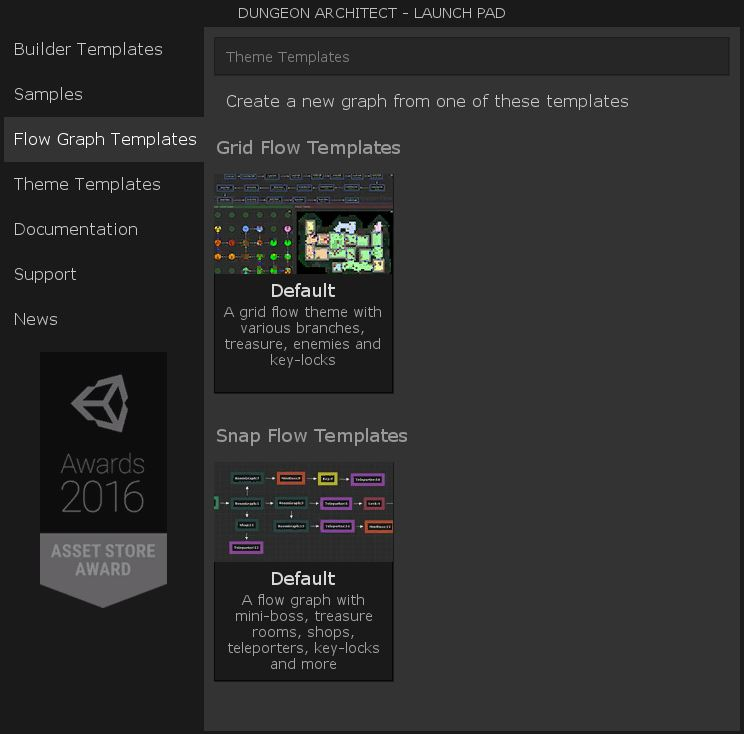
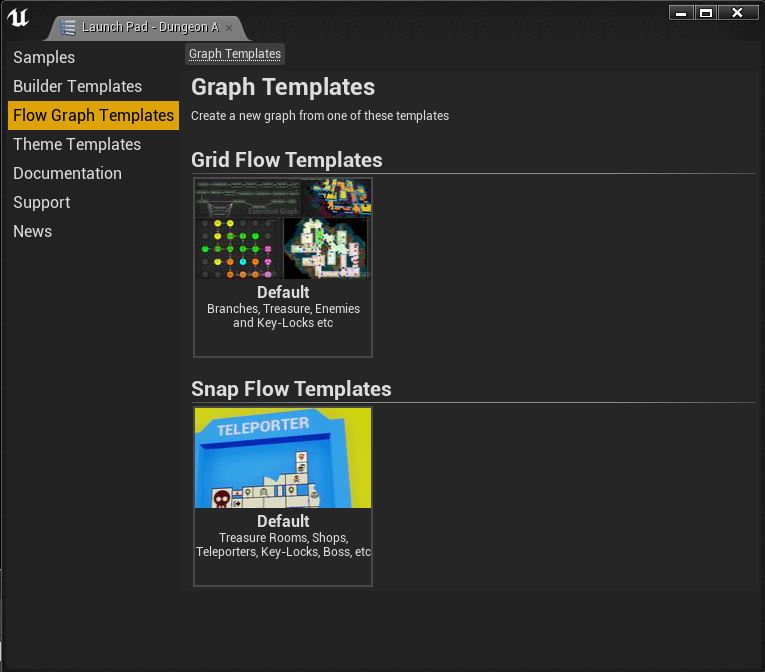
Updated the launchpad page

diff --git a/ue4/tutorials/searchindex.js b/ue4/tutorials/searchindex.js
@@ -1,1 +1,1 @@
-Search.setIndex({docnames:["advanced_dungeon_concepts","advanced_theming","builder_floor_plan","builder_grid","builder_grid_flow","builder_isaac","builder_simple_city","builder_snap_flow","create_first_dungeon","design_first_theme","index","launch_pad"],envversion:{"sphinx.domains.c":1,"sphinx.domains.changeset":1,"sphinx.domains.citation":1,"sphinx.domains.cpp":1,"sphinx.domains.javascript":1,"sphinx.domains.math":2,"sphinx.domains.python":1,"sphinx.domains.rst":1,"sphinx.domains.std":1,sphinx:56},filenames:["advanced_dungeon_concepts.rst","advanced_theming.rst","builder_floor_plan.rst","builder_grid.rst","builder_grid_flow.rst","builder_isaac.rst","builder_simple_city.rst","builder_snap_flow.rst","create_first_dungeon.rst","design_first_theme.rst","index.rst","launch_pad.rst"],objects:{},objnames:{},objtypes:{},terms:{"4x4":3,"512x512":4,"abstract":4,"break":9,"case":[1,9],"class":1,"default":[4,7,11],"final":7,"function":8,"import":[7,9],"long":4,"new":[3,4,7,8,9,10],"null":4,"public":1,"return":[1,4],"short":11,"static":4,"true":4,"var":4,"while":[3,4],Added:4,For:[],Ids:4,LHS:7,One:1,RHS:7,That:[],The:[3,4,7,8,9],Then:4,There:[4,9,11],These:[1,3,4,7,11],Use:[4,10,11],With:11,abov:7,access:11,accord:3,across:3,act:4,action:11,activ:3,actor:10,actual:4,adapt:9,add:[7,8,10],added:[4,9,11],adding:[3,4],adjac:7,adjust:[4,9],advanc:10,affect:11,after:[4,7,8],again:[4,7],ahead:[7,9],align:[1,7,10],all:[4,7,8,9],alli:4,allow:[3,7,9,11],along:4,alreadi:4,also:[4,7,9,11],altern:1,alternateselectionrul:1,alwai:9,amount:4,ani:[1,4,9,11],anoth:[3,4,7,9],anyth:4,anywher:4,appear:[],appli:[1,3,4],appropri:[4,11],architect:[4,7,9,11],area:[3,4,7,9],around:[3,4],art:[3,4,11],asset:[3,4,7,8,10,11],assign:[3,4,7,10],associ:11,attach:[4,9],automat:[4,9],avail:4,awai:4,axi:7,back:[4,11],bar:11,base:[4,11],becaus:9,been:9,befor:[4,9],behind:4,being:9,belong:4,below:[4,7],better:4,between:[3,7,9],bigger:9,billboard:4,bit:9,block:4,blue:4,blurri:4,bool:[1,4],border:4,boss:7,both:[3,4],bottom:9,bound:[4,7],boundari:9,box:[],branch:4,bring:4,brows:11,browser:[9,11],buffer:4,build:[3,7,9,10],builder:10,built:[3,4,7],bump:[3,4],button:[3,4,8,9,11],call:[4,11],came:9,can:[1,3,4,7,8,9,11],candi:8,candydungeonthem:[],canopendoor:4,canselect:1,canva:4,categori:[7,9,11],caus:9,cave:4,cell:[1,3],center:9,certain:[3,9],chanc:9,chang:[3,4,7,8,9],channel:11,chat:11,check:[3,4],child:7,choos:[9,11],citi:10,clear:4,click:[3,4,7,8,9,11],clone:11,close:[1,4],closer:4,collect:1,collid:4,color:4,come:[4,9],comfort:4,commun:11,compar:9,complet:[4,7],complex:[7,9],condit:9,config:4,configur:[4,7,8,9,11],connect:[3,4,9,10],consum:9,contain:[4,7,9,11],containsitem:4,content:[8,9],context:[4,9],continu:[3,9],control:[1,3,4,7,9,11],convert:4,corner:9,correct:7,correctli:9,corridor:[1,3,4,7],count:[4,7],cover:[3,7],creat:[1,3,10,11],creation:[3,7],criteria:[],crowd:1,current:[],cursor:3,custom:4,cyan:4,cycl:7,da_candi:9,dashboard:4,debug:9,decor:[4,10],defin:[3,7,8,9],delet:[3,7],demo:11,demo_theme_candi:[],demo_theme_simpleshap:3,demobuilder_gridflow:4,demogam:4,demogamesupportfil:4,demogridflow:4,depth:4,design:[3,7,10,11],desir:4,destroi:4,detail:[7,8],determin:3,dev:11,develop:11,differ:[1,3,4,7,8,9,11],difficult:9,difficulti:4,direct:7,directli:11,directori:[],disabl:4,disappear:9,discord:11,displai:4,dist:4,distanc:4,doc:7,dock:4,document:[7,10],documentaiton:[],doe:4,doesn:[4,9],don:[4,9],done:[4,7],door:[4,7,9],doorlargelocked_green:4,doorlargelocked_yellow:4,doubl:[4,7,9],down:[3,4,9],drag:[3,4,7,9],draw:[3,9],drawn:9,drop:[3,4,7,8,9],dungeon:[3,9,11],dungeonarchitect:[1,3,4],dungeonarchitect_sampl:[3,4,11],dungeonarchitect_samplesdemobuilder_snapscenesdemoscen:7,dungeongrid:3,dungeongridflow:4,dungeonmodel:1,dungeonsnap:7,each:[1,4,7],earlier:4,easili:11,edg:[4,7],edit:7,editor:[7,9,11],either:4,element:4,email:11,emit:9,emitt:10,empti:[4,9],emtpi:7,enabl:[4,8,9],end:4,engin:9,enough:3,entri:[7,8],epic:[],especi:11,etc:[4,7,9,11],even:9,eventu:[],everi:9,everyth:[4,11],exampl:[3,4,9],execut:[4,7,9],exist:[4,7,8,9,11],exit:7,expand:[3,4,9],experi:7,explor:[3,7,11],extern:11,extra:4,fals:4,far:4,featur:4,fenc:[3,9],few:[4,7],fewer:3,file:[4,8,10,11],fill:7,filter:4,find:[7,11],first:[3,4,10],fix:9,flag:9,floor:10,flow:10,flower:9,flowgraph:4,focu:4,fog:4,folder:[4,8,9,11],follow:[4,9,11],foreach:4,forum:11,fps:4,frame:9,freedom:9,frequenc:4,from:[4,7,8,9,11],full:7,fulli:11,further:[7,9],futur:[4,9,11],game:[3,4,7,11],gameobject:4,gap:7,gate:4,gener:[3,4,8,10],get:[3,4,7,8,9],getcomponentinchildren:4,give:[7,9],given:4,goal:4,going:4,good:[4,7],gradual:4,grammar:7,graph:[1,7,10],great:1,green:4,grei:4,greyscal:4,grid:[10,11],griddungeon:[],gridflow:10,gridflowbuilderdemo_gam:4,gridflowdoorkeycompon:4,gridflowdoorlockcompon:4,gridflowminimap:4,gridflowminimaptrackedobject:4,gridflowplayercontrol:4,gridposit:1,gridsiz:4,ground:[3,10],grund:4,grunt:4,guard:[4,7],half:9,hand:4,handl:1,handler:4,happen:4,has:[4,9],have:[3,4,7,9],haven:[],health_pickup:4,healthpickup:4,height:[3,4],help:[4,7],helper:8,henc:9,here:[4,7,9],hide:4,hierarchi:[4,9],high:3,histor:4,hit:[4,7],hold:4,hole:7,how:[3,4,7],icon:[4,7,8],imag:4,implement:4,includ:11,incorrect:9,increas:4,index:9,indic:[4,7,9],info:4,init:4,inner:9,insert:7,insid:[],inspect:[3,4,7,8],inspector:[4,7,11],instal:10,instead:[4,9],interact:11,interest:7,inventori:4,invok:[],isaac:10,issu:9,item:4,iter:7,its:9,just:[3,4,9],keep:4,kei:[7,10],key_room:4,keyguardian:4,keyid:4,keymain:4,keyskull_blu:4,keyskull_r:4,keytreasur:4,know:7,label:8,larg:[3,4,7],larger:11,last:[4,11],later:[4,7,11],lauch:11,launch:[3,10],launcher:11,layout:[3,7,8,11],learnt:9,leav:4,left:[3,4,7,9,11],let:[1,3,4,7,9,11],level:[3,4,8,11],levelgo:4,light:4,like:[4,7,9,11],line:[7,9],link:[7,9,11],list:[4,11],live:9,locat:[4,7],lock:[7,10],lockeddoor:4,lockid:4,lockmain:4,locktreasur:4,logic:[1,4],look:4,lower:4,made:4,mai:4,main:[7,11],mainboss:7,make:[4,7,9],mani:[4,11],manual:4,map:[3,7,9,10],marker:[3,4,10],marketplac:8,mat_tabletscreen:4,math:4,matrix4x4:1,max:[3,4],maximum:3,mean:9,mention:7,menu:[4,7,9],merg:4,mesh:[3,4,10],method:[3,4,9,11],might:4,min:[3,4],minecraft:4,mini:10,miniboss:7,mode:[4,7,10],model:1,modifi:[9,11],modul:[3,10],modular:9,more:[1,3,4,7,10,11],mous:9,move:[3,4,9],much:[3,11],mulitpli:4,multi:7,multipl:[3,7,9],mywalldeco:9,mywindowdeco:9,name:[4,7,8,9],navig:[3,4,9,10],nearbi:3,need:[4,7,9],never:[4,9],newli:[7,9],next:[4,9,11],node:[1,4,7,9],nois:4,non:9,noth:[],notic:[4,9],now:[4,7,9],npc:4,num:4,number:[3,4],numcel:3,object:[1,3,7,11],occur:4,off:[4,9],offer:4,offset:[1,10],older:7,onc:[9,11],one:[3,4,7,9,11],ones:11,onli:[3,4,9],onlin:11,open:[3,7,9,10],option:[8,9],orang:4,order:9,organ:10,origin:4,other:[1,4,7,9,11],otherwis:[3,7],our:[4,7,8,9],ourselv:[4,9],out:[4,9,11],output:4,outsid:4,outward:7,over:[4,11],overrid:[1,10],own:[1,3,9,11],pad:[3,4,10],page:[7,11],paid:11,paint:10,paintmod:3,panel:[4,7,8],paramet:[3,4,9],part:4,pattern:7,per:4,percentag:9,perform:[4,11],perpendicular:7,perturb:4,photo:9,pick:[4,9],pickup:4,pillar2:9,pillar:10,pivot:9,place:[4,7,8,9],placement:[3,4],plai:4,plan:10,platform:10,platformvolum:3,player:4,plu:8,plugin:[8,9],png:[],point:[4,7,9,11],portion:3,posit:[3,9,11],possibl:7,pot:9,practic:7,pre:[4,7],prebuilt:7,preconfigur:11,prefab:[3,10],prehistor:4,prepar:10,present:4,preview:[4,9],previou:[3,4,9,11],previous:7,probabl:[1,3,4,9],procedur:[3,7],process:[4,7,9],project:[4,7,11],promot:3,properli:[7,9],properti:[4,9,10,11],propsocket:1,proptransform:1,provid:[4,9],qualiti:4,random:[1,4,7,10],rawimag:4,reach:[3,4,11],readi:[4,7],realtim:4,rebuild:[3,4],recap:10,recreat:4,red:[4,7],ref:4,refer:[3,4,7,9],referenc:[4,11],regardless:9,regener:4,regist:10,registr:7,relav:4,releas:9,remov:4,renam:[4,7],render:4,repeat:7,replac:[7,9],requir:[4,7],reset:[4,7],resiz:3,rest:[3,9],result:4,retain:11,reus:7,rich:4,right:[4,7,9],rock:4,room:[1,3,7],root:[],rotat:[4,9],rule:[7,10],run:[4,7],same:[7,9],sampl:[3,7,8,10],satisfi:[7,9],save:[4,7,11],scale:[3,4,9],scatter:3,scene:[3,4,9,10,11],screen:11,script:[1,4,7],scroll:[3,11],sea:4,search:8,second:9,section:[3,4,9,11],see:[4,7,8,9,11],seed:[3,4,7,8],select:[3,4,7,8,9,10,11],selector:1,selectorrul:1,set:[1,3,4,7,9,11],setup:[10,11],shader:4,sharp:4,shift:3,should:[4,9],show:[8,9],shown:4,simpl:[7,10],simplest:9,simpli:[4,8],sinc:[4,7,9,11],size:[3,4],small:4,snap:[10,11],snapconnect:7,snapmap:7,socket:1,solid:9,some:[3,4,9],someth:4,sometim:[4,9],somewher:4,soon:7,space:4,spawn:[8,9],spawnpoint:4,spawnroom:7,special:[1,4,7],specifi:[4,7],spread:3,stair:3,start:[4,7,9,11],step:[3,4],stick:9,stitch:7,stop:9,store:11,support:[3,4,7,10],sure:[4,7,9],surround:3,sync:4,synchron:4,system:[1,7,10],tablet:4,tablet_map:4,take:[3,7],target:4,tell:7,templat:10,test:[],text:4,textur:4,thei:[4,7,9],them:[3,4,7,9,11],theme:10,theme_basic_whit:3,themeoverridevolum:3,themeprehistor:4,thi:[1,3,4,7,9,11],thick:4,thing:4,though:9,threshold:[3,4],through:[1,4,7,11],tile:[1,3,4],time:[4,7,9],tint:4,togeth:[3,4,7],toller:3,ton:11,too:1,tool:[4,11],toolbar:11,top:[3,4,11],tower:1,transform:[4,7,10],transpar:4,travers:3,treasur:7,treasure_alt:4,treasure_main:4,treasureroom:7,trigger:4,turn:[4,7,9],tutori:[4,9,11],two:[3,4,7,9],type:[4,9,11],ue4:8,uncheck:9,under:[4,7,8,9,11],unexplor:4,uniform:4,unityengin:1,unless:9,unlink:4,unlit:4,unlock:7,updat:[4,7,9,11],use:[4,7,8,9,11],used:[3,4,7,9],useful:[3,11],using:[1,4,7,9],usual:[7,11],valid:4,validkei:4,valu:[3,4,8,9],variat:3,variou:11,vehicl:4,version:9,video:11,view:[4,8,9],viewport:9,visibl:4,visual:4,volum:10,wai:[1,4,9,11],walk:7,wall1:9,wall2:9,wall:[3,4,7,10],wallsepar:9,want:[1,3,4,7],war:4,watch:11,well:7,were:9,what:11,wheel:3,when:[4,8,9],whenev:9,where:[4,7],which:[4,7,8,9],white:4,window:[4,7,10],within:4,without:11,won:4,wont:7,work:4,world:4,would:[7,9,11],write:1,yellow:4,yet:4,you:[1,3,4,7,8,9,11],your:[3,4,7,10,11],yourself:4,zoom:4},titles:["Advanced Dungeons","Advanced Theming","Floor Plan Builder","Grid Builder","Grid Flow Builder","Isaac Builder","Simple City Builder","Snap Flow Builder","Create your first Dungeon","Design your first theme","Welcome to Dungeon Architect Tutorials [UE4]","Launch Pad Window"],titleterms:{"final":4,"new":11,Use:9,actor:8,add:[4,9],advanc:[0,1],align:9,alt:4,altern:4,architect:[8,10],asset:9,assign:8,background:4,bonu:4,build:[4,8],builder:[2,3,4,5,6,7,11],chest:4,citi:6,compon:4,configur:[],connect:7,content:[],creat:[4,7,8,9],decor:9,design:[4,9],destroi:[],document:11,dungeon:[0,4,7,8,10],editor:4,elev:4,emitt:9,enabl:[],enemi:4,exampl:1,exist:[],explor:4,file:9,first:[8,9],floor:2,flow:[4,7,11],gener:7,graph:[4,11],grid:[3,4],gridflow:4,ground:9,guardian:4,health:4,initi:4,instal:8,isaac:5,kei:4,launch:11,layout:4,link:4,lock:4,main:4,map:4,marker:9,materi:4,mesh:9,mini:4,minimap:4,mode:3,modul:7,more:9,navig:11,object:4,offset:9,open:[4,11],optim:4,organ:8,overlai:4,overrid:3,pack:4,pad:11,paint:3,parent:4,partit:[],path:4,pillar:9,plan:2,platform:3,plugin:[],prefab:[4,7],prepar:7,properti:3,random:8,rebuild:[],recap:9,regist:7,room:4,rule:1,sampl:[4,9,11],scene:7,select:1,setup:[4,8],show:4,simpl:6,snap:7,spatial:[],spawn:4,support:11,system:4,templat:11,theme:[1,3,4,8,9,11],tilemap:4,track:4,transform:1,treasur:4,tree:4,tutori:10,ue4:10,volum:3,wall:9,welcom:10,window:[9,11],your:[8,9]}})
+Search.setIndex({docnames:["advanced_dungeon_concepts","advanced_theming","builder_floor_plan","builder_grid","builder_grid_flow","builder_isaac","builder_simple_city","builder_snap_flow","create_first_dungeon","design_first_theme","index","launch_pad"],envversion:{"sphinx.domains.c":1,"sphinx.domains.changeset":1,"sphinx.domains.citation":1,"sphinx.domains.cpp":1,"sphinx.domains.javascript":1,"sphinx.domains.math":2,"sphinx.domains.python":1,"sphinx.domains.rst":1,"sphinx.domains.std":1,sphinx:56},filenames:["advanced_dungeon_concepts.rst","advanced_theming.rst","builder_floor_plan.rst","builder_grid.rst","builder_grid_flow.rst","builder_isaac.rst","builder_simple_city.rst","builder_snap_flow.rst","create_first_dungeon.rst","design_first_theme.rst","index.rst","launch_pad.rst"],objects:{},objnames:{},objtypes:{},terms:{"4x4":3,"512x512":4,"abstract":4,"break":9,"case":[1,9],"class":1,"default":[4,7],"final":7,"function":8,"import":[7,9],"long":4,"new":[3,4,7,8,9,10],"null":4,"public":1,"return":[1,4],"short":11,"static":4,"true":4,"var":4,"while":[3,4],Added:4,For:[],Ids:4,LHS:7,One:1,RHS:7,That:[],The:[3,4,7,8,9],Then:4,There:[4,9,11],These:[1,3,4,7,11],Use:[4,10,11],With:11,abov:7,access:11,accord:3,across:3,act:4,action:11,activ:3,actor:10,actual:4,adapt:9,add:[7,8,10],added:[4,9,11],adding:[3,4],adjac:7,adjust:[4,9],advanc:10,affect:[],after:[4,7,8],again:[4,7],ahead:[7,9],align:[1,7,10],all:[4,7,8,9,11],alli:4,allow:[3,7,9,11],along:4,alreadi:4,also:[4,7,9],altern:1,alternateselectionrul:1,alwai:9,amount:4,ani:[1,4,9,11],anoth:[3,4,7,9],anyth:4,anywher:4,appear:[],appli:[1,3,4],appropri:4,architect:[4,7,9,11],area:[3,4,7,9],around:[3,4],art:[3,4],asset:[3,4,7,8,10,11],assign:[3,4,7,10],associ:[],attach:[4,9],automat:[4,9],avail:4,awai:4,axi:7,back:[4,11],bar:11,base:4,becaus:9,been:9,befor:[4,9],behind:4,being:9,belong:4,below:[4,7],better:4,between:[3,7,9],bigger:9,billboard:4,bit:9,blade:11,block:4,blue:4,blurri:4,bool:[1,4],border:4,boss:7,both:[3,4],bottom:9,bound:[4,7],boundari:9,box:[],branch:4,bring:4,brows:11,browser:[9,11],buffer:4,build:[3,7,9,10],builder:10,built:[3,4,7],bump:[3,4],bundl:11,button:[3,4,8,9,11],call:[4,11],came:9,can:[1,3,4,7,8,9,11],candi:8,candydungeonthem:[],canopendoor:4,canselect:1,canva:4,categori:[7,9],caus:9,cave:4,cell:[1,3],center:9,certain:[3,9],chanc:9,chang:[3,4,7,8,9],channel:11,chat:11,check:[3,4],child:7,choos:9,citi:10,clear:4,click:[3,4,7,8,9,11],clone:[],close:[1,4],closer:4,collect:1,collid:4,color:4,come:[4,9,11],comfort:4,commun:11,compar:9,complet:[4,7],complex:[7,9],condit:9,config:4,configur:[4,7,8,9],connect:[3,4,9,10],consum:9,contain:[4,7,9,11],containsitem:4,content:[8,9],context:[4,9],continu:[3,9],control:[1,3,4,7,9,11],convert:4,corner:9,correct:7,correctli:9,corridor:[1,3,4,7],count:[4,7],cover:[3,7],creat:[1,3,10,11],creation:[3,7],criteria:[],crowd:1,current:[],cursor:3,custom:4,cyan:4,cycl:7,da_candi:9,dashboard:4,debug:9,decor:[4,10],defin:[3,7,8,9],delet:[3,7],demo:[],demo_theme_candi:[],demo_theme_simpleshap:3,demobuilder_gridflow:4,demogam:4,demogamesupportfil:4,demogridflow:4,depth:4,design:[3,7,10,11],desir:4,destroi:4,detail:[7,8,11],determin:3,dev:11,develop:11,differ:[1,3,4,7,8,9,11],difficult:9,difficulti:4,direct:7,directli:11,directori:11,disabl:4,disappear:9,discord:11,displai:4,dist:4,distanc:4,doc:7,dock:4,document:[7,10],documentaiton:[],doe:4,doesn:[4,9],don:[4,9],done:[4,7],door:[4,7,9],doorlargelocked_green:4,doorlargelocked_yellow:4,doubl:[4,7,9],down:[3,4,9],drag:[3,4,7,9],draw:[3,9],drawn:9,drop:[3,4,7,8,9],dungeon:[3,9,11],dungeonarchitect:[1,3,4],dungeonarchitect_sampl:[3,4],dungeonarchitect_samplesdemobuilder_snapscenesdemoscen:7,dungeongrid:3,dungeongridflow:4,dungeonmodel:1,dungeonsnap:7,each:[1,4,7,11],earlier:4,easili:11,edg:[4,7],edit:7,editor:[7,9],either:4,element:4,email:11,emit:9,emitt:10,empti:[4,9],emtpi:7,enabl:[4,8,9],end:4,engin:9,enough:3,entri:[7,8],epic:[],especi:11,etc:[4,7,9,11],even:9,eventu:[],everi:9,everyth:4,exampl:[3,4,9],execut:[4,7,9],exist:[4,7,8,9,11],exit:7,expand:[3,4,9],experi:7,explor:[3,7,11],extern:11,extra:4,fals:4,far:4,featur:4,fenc:[3,9],few:[4,7],fewer:3,file:[4,8,10,11],fill:7,filter:4,find:[7,11],first:[3,4,10],fix:9,flag:9,floor:10,flow:10,flower:9,flowgraph:4,focu:4,fog:4,folder:[4,8,9],follow:[4,9,11],foreach:4,forum:11,fps:4,frame:9,free:11,freedom:9,freeli:11,frequenc:4,from:[4,7,8,9,11],full:7,fulli:[],further:[7,9],futur:[4,9,11],game:[3,4,7],gameobject:4,gap:7,gate:4,gener:[3,4,8,10],get:[3,4,7,8,9],getcomponentinchildren:4,give:[7,9],given:4,goal:4,going:4,good:[4,7],gradual:4,grammar:7,graph:[1,7,10],great:1,green:4,grei:4,greyscal:4,grid:10,griddungeon:[],gridflow:10,gridflowbuilderdemo_gam:4,gridflowdoorkeycompon:4,gridflowdoorlockcompon:4,gridflowminimap:4,gridflowminimaptrackedobject:4,gridflowplayercontrol:4,gridposit:1,gridsiz:4,ground:[3,10],grund:4,grunt:4,guard:[4,7],half:9,hand:4,handl:1,handler:4,happen:4,has:[4,9],have:[3,4,7,9],haven:[],health_pickup:4,healthpickup:4,height:[3,4],help:[4,7],helper:8,henc:9,here:[4,7,9],hide:4,hierarchi:[4,9],high:3,histor:4,hit:[4,7],hold:4,hole:7,how:[3,4,7],icon:[4,7,8],imag:4,implement:4,includ:11,incorrect:9,increas:4,index:9,indic:[4,7,9],infin:11,info:[4,11],init:4,inner:9,insert:7,insid:[],inspect:[3,4,7,8],inspector:[4,7],instal:10,instead:[4,9],interact:11,interest:7,inventori:4,invok:[],isaac:10,issu:9,item:4,iter:7,its:9,just:[3,4,9],keep:4,kei:[7,10],key_room:4,keyguardian:4,keyid:4,keymain:4,keyskull_blu:4,keyskull_r:4,keytreasur:4,know:7,label:8,larg:[3,4,7],larger:11,last:[4,11],later:[4,7,11],lauch:11,launch:[3,10],launcher:[],layout:[3,7,8,11],learnt:9,leav:4,left:[3,4,7,9,11],let:[1,3,4,7,9,11],level:[3,4,8,11],levelgo:4,light:4,like:[4,7,9,11],line:[7,9],link:[7,9,11],list:[4,11],live:9,locat:[4,7],lock:[7,10],lockeddoor:4,lockid:4,lockmain:4,locktreasur:4,logic:[1,4],look:4,lower:4,made:4,mai:4,main:[7,11],mainboss:7,make:[4,7,9],mani:[4,11],manual:4,map:[3,7,9,10,11],marker:[3,4,10],marketplac:[8,11],mat_tabletscreen:4,math:4,matrix4x4:1,max:[3,4],maximum:3,mean:9,mention:7,menu:[4,7,9],merg:4,mesh:[3,4,10],method:[3,4,9,11],might:4,min:[3,4],minecraft:4,mini:10,miniboss:7,mode:[4,7,10],model:1,modifi:[9,11],modul:[3,10],modular:9,more:[1,3,4,7,10,11],mous:9,move:[3,4,9],much:[3,11],mulitpli:4,multi:7,multipl:[3,7,9],mywalldeco:9,mywindowdeco:9,name:[4,7,8,9],navig:[3,4,9,10],nearbi:3,need:[4,7,9,11],never:[4,9],newli:[7,9],next:[4,9],node:[1,4,7,9],nois:4,non:9,noth:[],notic:[4,9],now:[4,7,9],npc:4,num:4,number:[3,4],numcel:3,object:[1,3,7],occur:4,off:[4,9],offer:4,offset:[1,10],older:7,onc:9,one:[3,4,7,9,11],ones:11,onli:[3,4,9],onlin:11,open:[3,7,9,10],option:[8,9],orang:4,order:9,organ:10,origin:4,other:[1,4,7,9,11],otherwis:[3,7],our:[4,7,8,9],ourselv:[4,9],out:[4,9,11],output:4,outsid:4,outward:7,over:4,overrid:[1,10],own:[1,3,9],pad:[3,4,10],page:[7,11],paid:[],paint:10,paintmod:3,panel:[4,7,8],paramet:[3,4,9],part:4,pattern:7,per:4,percentag:9,perform:[4,11],perpendicular:7,perturb:4,photo:9,pick:[4,9],pickup:4,pillar2:9,pillar:10,pivot:9,place:[4,7,8,9],placement:[3,4],plai:4,plan:10,platform:10,platformvolum:3,player:4,plu:8,plugin:[8,9],png:[],point:[4,7,9,11],portion:3,posit:[3,9,11],possibl:7,pot:9,practic:7,pre:[4,7],prebuilt:7,preconfigur:11,prefab:[3,10],prehistor:4,prepar:10,present:4,preview:[4,9],previou:[3,4,9,11],previous:7,probabl:[1,3,4,9],procedur:[3,7],process:[4,7,9],project:[4,7,11],promot:3,properli:[7,9],properti:[4,9,10],propsocket:1,proptransform:1,provid:[4,9],qualiti:4,random:[1,4,7,10],rawimag:4,reach:[3,4,11],readi:[4,7],realtim:4,rebuild:[3,4],recap:10,recreat:4,red:[4,7],ref:4,refer:[3,4,7,9],referenc:[4,11],regardless:9,regener:4,regist:10,registr:7,relav:4,releas:9,relev:11,remov:4,renam:[4,7],render:4,repeat:7,replac:[7,9],requir:[4,7,11],reset:[4,7],resiz:3,rest:[3,9],result:4,retain:11,reus:7,rich:4,right:[4,7,9],rock:4,room:[1,3,7],root:[],rotat:[4,9],rule:[7,10],run:[4,7],same:[7,9],sampl:[3,7,8,10],satisfi:[7,9],save:[4,7],scale:[3,4,9],scatter:3,scene:[3,4,9,10],screen:[],script:[1,4,7],scroll:[3,11],sea:4,search:8,second:9,section:[3,4,9,11],see:[4,7,8,9,11],seed:[3,4,7,8],select:[3,4,7,8,9,10,11],selector:1,selectorrul:1,set:[1,3,4,7,9],setup:[10,11],shader:4,sharp:4,shift:3,should:[4,9],show:[8,9],shown:4,simpl:[7,10],simplest:9,simpli:[4,8],sinc:[4,7,9,11],size:[3,4],small:4,snap:10,snapconnect:7,snapmap:7,socket:1,solid:9,some:[3,4,9,11],someth:4,sometim:[4,9],somewher:4,soon:7,space:4,spawn:[8,9],spawnpoint:4,spawnroom:7,special:[1,4,7],specifi:[4,7],spread:3,stair:3,start:[4,7,9,11],step:[3,4],stick:9,stitch:7,stop:9,store:[],support:[3,4,7,10],sure:[4,7,9],surround:3,sync:4,synchron:4,system:[1,7,10],tablet:4,tablet_map:4,take:[3,7,11],target:4,tell:7,templat:10,test:[],text:4,textur:4,thei:[4,7,9],them:[3,4,7,9,11],theme:10,theme_basic_whit:3,themeoverridevolum:3,themeprehistor:4,thi:[1,3,4,7,9,11],thick:4,thing:4,though:9,threshold:[3,4],through:[1,4,7,11],tile:[1,3,4],time:[4,7,9],tint:4,togeth:[3,4,7],toller:3,ton:11,too:1,tool:[4,11],toolbar:11,top:[3,4,11],tower:1,transform:[4,7,10],transpar:4,travers:3,treasur:7,treasure_alt:4,treasure_main:4,treasureroom:7,trigger:4,turn:[4,7,9],tutori:[4,9,11],two:[3,4,7,9],type:[4,9,11],ue4:8,uncheck:9,under:[4,7,8,9],unexplor:4,uniform:4,unityengin:1,unless:9,unlink:4,unlit:4,unlock:7,updat:[4,7,9,11],use:[4,7,8,9,11],used:[3,4,7,9],useful:[3,11],using:[1,4,7,9],usual:[7,11],valid:4,validkei:4,valu:[3,4,8,9],variat:3,variou:11,vehicl:4,version:9,video:[],view:[4,8,9],viewport:9,visibl:4,visual:4,volum:10,wai:[1,4,9,11],walk:7,wall1:9,wall2:9,wall:[3,4,7,10],wallsepar:9,want:[1,3,4,7],war:4,watch:[],well:7,were:9,what:11,wheel:3,when:[4,8,9],whenev:9,where:[4,7],which:[4,7,8,9],white:4,window:[4,7,10],within:4,without:[],won:4,wont:7,work:4,world:4,would:[7,9],write:1,yellow:4,yet:4,you:[1,3,4,7,8,9,11],your:[3,4,7,10,11],yourself:4,zoom:4},titles:["Advanced Dungeons","Advanced Theming","Floor Plan Builder","Grid Builder","Grid Flow Builder","Isaac Builder","Simple City Builder","Snap Flow Builder","Create your first Dungeon","Design your first theme","Welcome to Dungeon Architect Tutorials [UE4]","Launch Pad Window"],titleterms:{"final":4,"new":11,Use:9,actor:8,add:[4,9],advanc:[0,1],align:9,alt:4,altern:4,architect:[8,10],asset:9,assign:8,background:4,bonu:4,build:[4,8],builder:[2,3,4,5,6,7,11],chest:4,citi:6,clone:11,compon:4,configur:[],connect:7,content:[],creat:[4,7,8,9],decor:9,depend:11,design:[4,9],destroi:[],document:11,dungeon:[0,4,7,8,10],editor:4,elev:4,emitt:9,enabl:[],enemi:4,exampl:1,exist:[],explor:4,file:9,first:[8,9],floor:2,flow:[4,7,11],gener:7,graph:[4,11],grid:[3,4],gridflow:4,ground:9,guardian:4,health:4,initi:4,instal:[8,11],isaac:5,kei:4,launch:11,layout:4,link:4,lock:4,main:4,map:4,marker:9,materi:4,mesh:9,mini:4,minimap:4,mode:3,modul:7,more:9,navig:11,object:4,offset:9,open:[4,11],optim:4,organ:8,overlai:4,overrid:3,pack:4,pad:11,paint:3,parent:4,partit:[],path:4,pillar:9,plan:2,platform:3,plugin:[],prefab:[4,7],prepar:7,properti:3,random:8,rebuild:[],recap:9,regist:7,room:4,rule:1,sampl:[4,9,11],scene:[7,11],select:1,setup:[4,8],show:4,simpl:6,snap:7,spatial:[],spawn:4,support:11,system:4,templat:11,theme:[1,3,4,8,9,11],tilemap:4,track:4,transform:1,treasur:4,tree:4,tutori:10,ue4:10,video:11,volum:3,wall:9,watch:11,welcom:10,window:[9,11],your:[8,9]}})

diff --git a/ue4/tutorials/launch_pad.html b/ue4/tutorials/launch_pad.html
@@ -87,8 +87,13 @@
 <li class="toctree-l1 current"><a class="current reference internal" href="#">Launch Pad Window</a><ul>
 <li class="toctree-l2"><a class="reference internal" href="#open-launch-pad">Open Launch Pad</a></li>
 <li class="toctree-l2"><a class="reference internal" href="#navigation">Navigation</a></li>
+<li class="toctree-l2"><a class="reference internal" href="#samples">Samples</a><ul>
+<li class="toctree-l3"><a class="reference internal" href="#clone-scene">Clone Scene</a></li>
+<li class="toctree-l3"><a class="reference internal" href="#install-dependency">Install Dependency</a></li>
+<li class="toctree-l3"><a class="reference internal" href="#watch-video">Watch Video</a></li>
+</ul>
+</li>
 <li class="toctree-l2"><a class="reference internal" href="#builder-templates">Builder Templates</a></li>
-<li class="toctree-l2"><a class="reference internal" href="#samples">Samples</a></li>
 <li class="toctree-l2"><a class="reference internal" href="#flow-graph-templates">Flow Graph Templates</a></li>
 <li class="toctree-l2"><a class="reference internal" href="#theme-templates">Theme Templates</a></li>
 <li class="toctree-l2"><a class="reference internal" href="#documentation">Documentation</a></li>
@@ -175,6 +180,10 @@
 <div class="section" id="open-launch-pad">
 <h2>Open Launch Pad<a class="headerlink" href="#open-launch-pad" title="Permalink to this headline">¶</a></h2>
 <p>Click the <code class="docutils literal notranslate"><span class="pre">DA</span></code> button from the main toolbar. This will open the <cite>Launch Pad</cite> window</p>
+<div class="figure align-center" id="id1">
+<img alt="_images/012.png" src="_images/012.png" />
+<p class="caption"><span class="caption-text">Tool button to open Lauch Pad window</span><a class="headerlink" href="#id1" title="Permalink to this image">¶</a></p>
+</div>
 <p>With the Launch Pad, you can do the following:</p>
 <ul class="simple">
 <li><p>Browse the various samples scenes</p></li>
@@ -183,10 +192,6 @@
 <li><p>Clone Theme files from existing templates</p></li>
 <li><p>Access the various documentation and support channels</p></li>
 </ul>
-<div class="figure align-center" id="id1">
-<img alt="_images/012.png" src="_images/012.png" />
-<p class="caption"><span class="caption-text">Tool button to open Lauch Pad window</span><a class="headerlink" href="#id1" title="Permalink to this image">¶</a></p>
-</div>
 <div class="figure align-center" id="id2">
 <img alt="_images/022.jpg" src="_images/022.jpg" />
 <p class="caption"><span class="caption-text">Lauch Pad window</span><a class="headerlink" href="#id2" title="Permalink to this image">¶</a></p>
@@ -202,96 +207,74 @@
 <p class="caption"><span class="caption-text">Navigation bar</span><a class="headerlink" href="#id3" title="Permalink to this image">¶</a></p>
 </div>
 </div>
-<div class="section" id="builder-templates">
-<h2>Builder Templates<a class="headerlink" href="#builder-templates" title="Permalink to this headline">¶</a></h2>
-<div class="figure align-center" id="id4">
-<img alt="_images/025.jpg" src="_images/025.jpg" />
-<p class="caption"><span class="caption-text">Dungeon Architect - List of Builders</span><a class="headerlink" href="#id4" title="Permalink to this image">¶</a></p>
-</div>
-<p>Dungeon Architect supports many different types of dungeon layout methods and is designed in a way that new layout methods can be easily added in the future</p>
-<p>These layout methods are called <cite>Dungeon Builders</cite> or <strong>Builders</strong> in short</p>
-<p>This section lets you create a new scene preconfigured with one of the builder templates.  Click on any of the builders. In the next screen, click the <code class="docutils literal notranslate"><span class="pre">Clone</span> <span class="pre">Scene</span></code> button</p>
-<div class="figure align-center">
-<img alt="_images/06.jpg" src="_images/06.jpg" />
-</div>
-<p>This will create a new scene based on the template, fully configured with the appropriate dungeon.  It will also clone a starting theme file (and any other flow graph assets) and set everything up.</p>
-<p>Choose a folder to saved your scene file.  Once saved, the launcher would do the following:</p>
-<ul class="simple">
-<li><p>Open the new scene</p></li>
-<li><p>Open any theme editor windows associated with the referenced assets (Theme Editor, Flow Graph Editors etc)</p></li>
-<li><p>Select the dungeon game object (so you see the properties in the inspector by default)</p></li>
-</ul>
-</div>
 <div class="section" id="samples">
 <h2>Samples<a class="headerlink" href="#samples" title="Permalink to this headline">¶</a></h2>
-<div class="figure align-center">
+<p>Browse the various samples that come bundled with Dungeon Architect</p>
+<img alt="_images/022.jpg" class="align-center" src="_images/022.jpg" />
+<p>There are tons of samples to explore.  Select a sample for more details</p>
+<img alt="_images/05.jpg" class="align-center" src="_images/05.jpg" />
+<p>You can perform various actions on each sample</p>
+<div class="section" id="clone-scene">
+<h3>Clone Scene<a class="headerlink" href="#clone-scene" title="Permalink to this headline">¶</a></h3>
+<img alt="_images/06A.png" class="align-center" src="_images/06A.png" />
+<p>Clone this scene and all the relevant assets (referenced themes, flow graphs etc) into the selected directory.   This lets you freely explore and modify the cloned sample map</p>
+</div>
+<div class="section" id="install-dependency">
+<h3>Install Dependency<a class="headerlink" href="#install-dependency" title="Permalink to this headline">¶</a></h3>
+<img alt="_images/06C.png" class="align-center" src="_images/06C.png" />
+<p>Some samples require an external asset from the marketplace (usually free ones like infinity blade assets). This button takes you there so you can install them in your project</p>
+</div>
+<div class="section" id="watch-video">
+<h3>Watch Video<a class="headerlink" href="#watch-video" title="Permalink to this headline">¶</a></h3>
+<img alt="_images/06B.png" class="align-center" src="_images/06B.png" />
+<p>Watch a video, if it exists</p>
+</div>
+</div>
+<div class="section" id="builder-templates">
+<h2>Builder Templates<a class="headerlink" href="#builder-templates" title="Permalink to this headline">¶</a></h2>
+<p>Dungeon Architect supports many different types of dungeon layout methods and is designed in a way that new layout methods can be easily added in the future</p>
+<p>These layout methods are called <cite>Dungeon Builders</cite> or <strong>Builders</strong> in short</p>
+<div class="figure align-center" id="id4">
 <img alt="_images/072.jpg" src="_images/072.jpg" />
+<p class="caption"><span class="caption-text">Dungeon Architect - List of Builders</span><a class="headerlink" href="#id4" title="Permalink to this image">¶</a></p>
 </div>
-<p>There are tons of samples to explore.  Select a sample you like and perform one of the following actions</p>
-<ul class="simple">
-<li><p><strong>Open Scene</strong>: Opens the sample scene (usually under DungeonArchitect_Samples folder)</p></li>
-<li><p><strong>Open Folder</strong>: Opens the folder containing the scene</p></li>
-<li><p><strong>Clone Scene</strong>: Clone a scene and also clone over the referenced assets (themes, flow graphs etc) so you can modify them without affecting the sample scene</p></li>
-<li><p><strong>Watch Demo</strong>: Watch a video, if it exists</p></li>
-</ul>
-<div class="figure align-center">
-<img alt="_images/082.jpg" src="_images/082.jpg" />
-</div>
+<p>This section lets you create a new scene preconfigured with one of the builder templates.  Click on any of the builders to see more info.</p>
+<img alt="_images/082.jpg" class="align-center" src="_images/082.jpg" />
+<p>Click the <code class="docutils literal notranslate"><span class="pre">Clone</span> <span class="pre">Scene</span></code> button to create a new scene preconfigured with this dungeon builder and sample themes to go with it (and any other flow graph assets if needed)</p>
 </div>
 <div class="section" id="flow-graph-templates">
 <h2>Flow Graph Templates<a class="headerlink" href="#flow-graph-templates" title="Permalink to this headline">¶</a></h2>
-<div class="figure align-center">
-<img alt="_images/092.jpg" src="_images/092.jpg" />
-</div>
 <p>Flow graphs allow you to control the flow of your dungeon (more on this in the later tutorial sections).   This section contains a list of flow graph templates you can use as a starting point for your project</p>
-<div class="figure align-center" id="id5">
-<img alt="_images/105.jpg" src="_images/105.jpg" />
-<p class="caption"><span class="caption-text">Clone Grid Flow Graphs</span><a class="headerlink" href="#id5" title="Permalink to this image">¶</a></p>
-</div>
-<div class="figure align-center" id="id6">
-<img alt="_images/111.jpg" src="_images/111.jpg" />
-<p class="caption"><span class="caption-text">Clone Snap Flow Graphs</span><a class="headerlink" href="#id6" title="Permalink to this image">¶</a></p>
-</div>
+<img alt="_images/092.jpg" class="align-center" src="_images/092.jpg" />
+<img alt="_images/102.png" class="align-center" src="_images/102.png" />
+<p>Clone the flow graph asset to use as your starting point</p>
 </div>
 <div class="section" id="theme-templates">
 <h2>Theme Templates<a class="headerlink" href="#theme-templates" title="Permalink to this headline">¶</a></h2>
 <p>Clone one of the many themes and use it in your project or as a starting point for a new theme</p>
-<div class="figure align-center" id="id7">
-<img alt="_images/121.jpg" src="_images/121.jpg" />
-<p class="caption"><span class="caption-text">Theme template browser</span><a class="headerlink" href="#id7" title="Permalink to this image">¶</a></p>
+<div class="figure align-center" id="id5">
+<img alt="_images/111.jpg" src="_images/111.jpg" />
+<p class="caption"><span class="caption-text">Theme template browser</span><a class="headerlink" href="#id5" title="Permalink to this image">¶</a></p>
 </div>
 <p>Select a theme and clone it</p>
 <div class="figure align-center">
-<img alt="_images/131.jpg" src="_images/131.jpg" />
+<img alt="_images/121.jpg" src="_images/121.jpg" />
 </div>
-<p>There’s also a category on <cite>External Themes</cite>, the ones that use external paid art assets from the Asset Store.  You can use these themes if you also own the art asset.</p>
-<div class="figure align-center">
-<img alt="_images/142.jpg" src="_images/142.jpg" />
-</div>
-<div class="figure align-center">
-<img alt="_images/151.jpg" src="_images/151.jpg" />
-</div>
+<img alt="_images/131.png" class="align-center" src="_images/131.png" />
 </div>
 <div class="section" id="documentation">
 <h2>Documentation<a class="headerlink" href="#documentation" title="Permalink to this headline">¶</a></h2>
 <p>Links to various online documentation, including this one</p>
-<div class="figure align-center">
-<img alt="_images/16.png" src="_images/16.png" />
-</div>
+<img alt="_images/14.png" class="align-center" src="_images/14.png" />
 </div>
 <div class="section" id="support">
 <h2>Support<a class="headerlink" href="#support" title="Permalink to this headline">¶</a></h2>
 <p>Reach the developers through any one of these channels. Interact with the community and the devs in Discord chat and forums or reach directly through email</p>
-<div class="figure align-center">
-<img alt="_images/171.png" src="_images/171.png" />
-</div>
+<img alt="_images/151.png" class="align-center" src="_images/151.png" />
 </div>
 <div class="section" id="news">
 <h2>News<a class="headerlink" href="#news" title="Permalink to this headline">¶</a></h2>
 <p>Dungeon Architect News!  Find out whats new since the last update</p>
-<div class="figure align-center">
-<img alt="_images/18.jpg" src="_images/18.jpg" />
-</div>
 </div>
 </div>
 

diff --git a/ue4/tutorials/index.html b/ue4/tutorials/index.html
@@ -187,8 +187,8 @@
 <li class="toctree-l1"><a class="reference internal" href="launch_pad.html">Launch Pad Window</a><ul>
 <li class="toctree-l2"><a class="reference internal" href="launch_pad.html#open-launch-pad">Open Launch Pad</a></li>
 <li class="toctree-l2"><a class="reference internal" href="launch_pad.html#navigation">Navigation</a></li>
-<li class="toctree-l2"><a class="reference internal" href="launch_pad.html#builder-templates">Builder Templates</a></li>
 <li class="toctree-l2"><a class="reference internal" href="launch_pad.html#samples">Samples</a></li>
+<li class="toctree-l2"><a class="reference internal" href="launch_pad.html#builder-templates">Builder Templates</a></li>
 <li class="toctree-l2"><a class="reference internal" href="launch_pad.html#flow-graph-templates">Flow Graph Templates</a></li>
 <li class="toctree-l2"><a class="reference internal" href="launch_pad.html#theme-templates">Theme Templates</a></li>
 <li class="toctree-l2"><a class="reference internal" href="launch_pad.html#documentation">Documentation</a></li>
